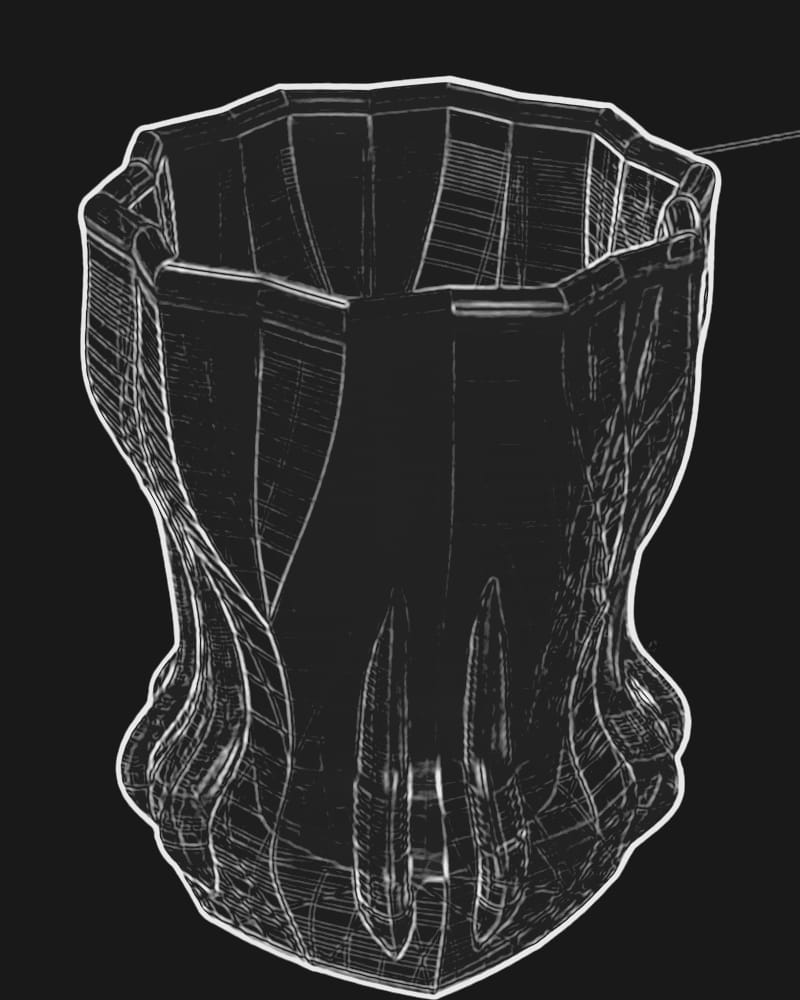
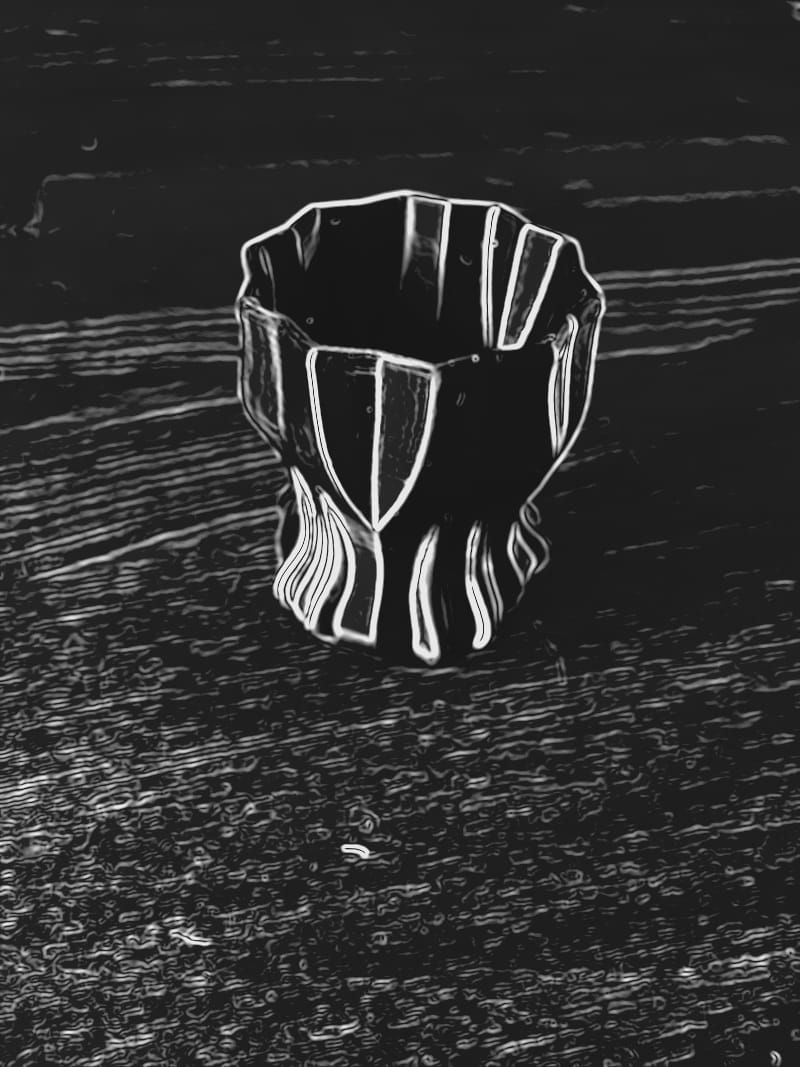
Shot Glasses: gallery tile uses the black glass on the wood counter
Claude-Session: https://claude.ai/code/session_01AbSXnTSyfPK2XD5SUNG9yq

diff --git a/src/content/made/brain-trust-shot-glasses/index.md b/src/content/made/brain-trust-shot-glasses/index.md
@@ -13,8 +13,8 @@ coverFocus: 75% 50%
 coverPlain: true
 coverLight: true
 thumbnail:
-  src: ./3d-model-thumbnail.jpg
-  alt: The 3D model of the shot glass shown as a see-through wireframe, with a faceted rim and long ribs flowing down to the base.
+  src: ./single-glass.jpg
+  alt: A single black 3D-printed shot glass on a wooden counter top, with a faceted rim and smooth ribs flowing down to a rippled base.
 photos:
   - src: ./four-glasses-wide.jpg
     alt: Four black 3D-printed shot glasses lined up on a gold-flecked counter in low light, which catches the ribs flowing down each glass.
